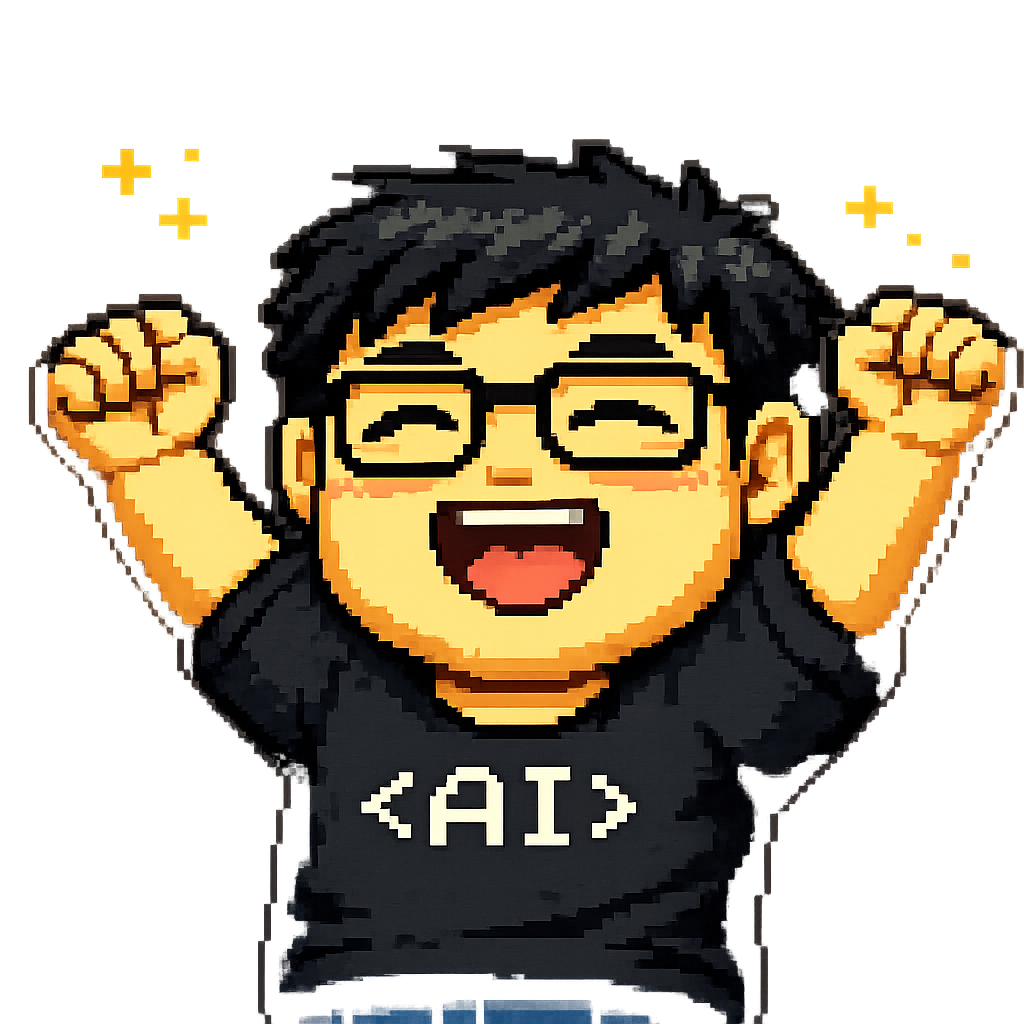
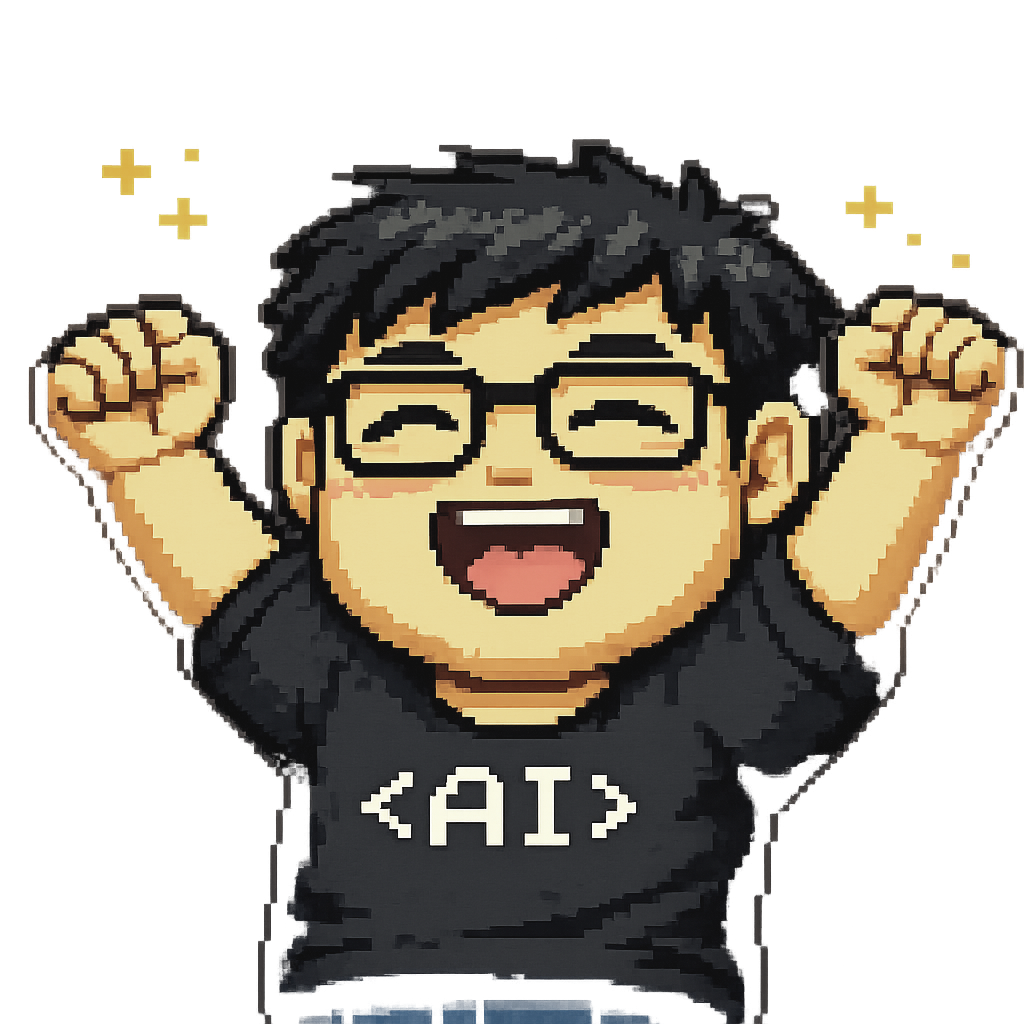
Add new programmer sprite directional animations reacting to the cursur location.

diff --git a/js/main.js b/js/main.js
@@ -8,6 +8,11 @@ class VibeCreAIApp {
         this.isInitialized = false;
         this.elements = {};
         this.animations = {};
+        this.programmerDirection = 'default';
+        this.programmerSpriteSources = null;
+        this.preloadedProgrammerSprites = [];
+        this.pendingProgrammerPointer = null;
+        this.programmerPointerFrame = null;
         
         // Focus bracket system variables
         this.focusBracket = {
@@ -54,6 +59,7 @@ class VibeCreAIApp {
             logoContainer: document.getElementById('logo-text-container'),
             heroSubtitle: dom.get('heroSubtitle'),
             tagline: document.getElementById('tagline'),
+            programmerCharacter: document.getElementById('programmer-character'),
 
             // Form elements
             newsletterForm: dom.get('newsletterForm'),
@@ -66,7 +72,125 @@ class VibeCreAIApp {
     }
 
     setupProgrammerAnimation() {
-        // GIF handles animation automatically, no JavaScript needed
+        const { events } = window.VibePerf;
+        const { programmerCharacter } = this.elements;
+
+        if (!programmerCharacter) return;
+
+        const spriteVersion = '20260323a';
+        this.programmerSpriteSources = {
+            default: `images/Samson_programmer.gif?v=${spriteVersion}`,
+            up: `images/Samson_programmer_up.gif?v=${spriteVersion}`,
+            down: `images/Samson_programmer_down.gif?v=${spriteVersion}`,
+            left: `images/Samson_programmer_left.gif?v=${spriteVersion}`,
+            right: `images/Samson_programmer_right.gif?v=${spriteVersion}`
+        };
+
+        this.preloadProgrammerSprites();
+        this.setProgrammerDirection('default');
+
+        const queueDirectionUpdate = (clientX, clientY) => {
+            this.pendingProgrammerPointer = { clientX, clientY };
+
+            if (this.programmerPointerFrame) return;
+
+            this.programmerPointerFrame = window.requestAnimationFrame(() => {
+                this.programmerPointerFrame = null;
+
+                if (!this.pendingProgrammerPointer) return;
+
+                const { clientX: nextX, clientY: nextY } = this.pendingProgrammerPointer;
+                this.pendingProgrammerPointer = null;
+                this.setProgrammerDirection(this.getProgrammerDirectionFromPoint(nextX, nextY));
+            });
+        };
+
+        const resetDirection = () => {
+            this.pendingProgrammerPointer = null;
+
+            if (this.programmerPointerFrame) {
+                window.cancelAnimationFrame(this.programmerPointerFrame);
+                this.programmerPointerFrame = null;
+            }
+
+            this.setProgrammerDirection('default');
+        };
+
+        const handleTouchPoint = (event) => {
+            if (!event.touches || !event.touches.length) return;
+
+            const touch = event.touches[0];
+            queueDirectionUpdate(touch.clientX, touch.clientY);
+        };
+
+        events.addPassiveListener(document, 'mousemove', (event) => {
+            queueDirectionUpdate(event.clientX, event.clientY);
+        });
+
+        events.addPassiveListener(window, 'mouseout', (event) => {
+            if (!event.relatedTarget && !event.toElement) {
+                resetDirection();
+            }
+        });
+
+        events.addPassiveListener(window, 'blur', resetDirection);
+
+        events.addPassiveListener(document, 'visibilitychange', () => {
+            if (document.hidden) {
+                resetDirection();
+            }
+        });
+
+        events.addPassiveListener(document, 'touchstart', handleTouchPoint, { capture: true });
+        events.addPassiveListener(document, 'touchmove', handleTouchPoint, { capture: true });
+        events.addPassiveListener(document, 'touchend', resetDirection, { capture: true });
+        events.addPassiveListener(document, 'touchcancel', resetDirection, { capture: true });
+    }
+
+    preloadProgrammerSprites() {
+        if (!this.programmerSpriteSources) return;
+
+        this.preloadedProgrammerSprites = Object.values(this.programmerSpriteSources).map((src) => {
+            const image = new Image();
+            image.src = src;
+            return image;
+        });
+    }
+
+    getProgrammerDirectionFromPoint(clientX, clientY) {
+        const { programmerCharacter } = this.elements;
+
+        if (!programmerCharacter) {
+            return 'default';
+        }
+
+        const rect = programmerCharacter.getBoundingClientRect();
+        const centerX = rect.left + (rect.width / 2);
+        const centerY = rect.top + (rect.height / 2);
+        const deltaX = clientX - centerX;
+        const deltaY = clientY - centerY;
+        const deadZone = Math.max(28, Math.min(rect.width, rect.height) * 0.18);
+
+        if (Math.abs(deltaX) < deadZone && Math.abs(deltaY) < deadZone) {
+            return 'default';
+        }
+
+        if (Math.abs(deltaX) > Math.abs(deltaY)) {
+            return deltaX < 0 ? 'left' : 'right';
+        }
+
+        return deltaY < 0 ? 'up' : 'down';
+    }
+
+    setProgrammerDirection(direction) {
+        const { programmerCharacter } = this.elements;
+
+        if (!programmerCharacter || !this.programmerSpriteSources?.[direction]) return;
+        if (this.programmerDirection === direction) return;
+
+        programmerCharacter.src = this.programmerSpriteSources[direction];
+        programmerCharacter.dataset.direction = direction;
+        this.programmerDirection = direction;
     }
 
     initializeYear() {

diff --git a/index.html b/index.html
@@ -197,7 +197,7 @@
                     <span class="code-symbol">return</span>
                     <span class="code-symbol">if</span>
                     <span class="code-symbol">&amp;&amp;</span>
-                    <img class="programmer-character" id="programmer-character" src="images/Samson_programmer.gif?v=20260320b" alt="Programmer Character">
+                    <img class="programmer-character" id="programmer-character" src="images/Samson_programmer.gif?v=20260323a" alt="Programmer Character">
                 </div>
                 
                 <div class="source-code-terminal" id="source-code-terminal">
